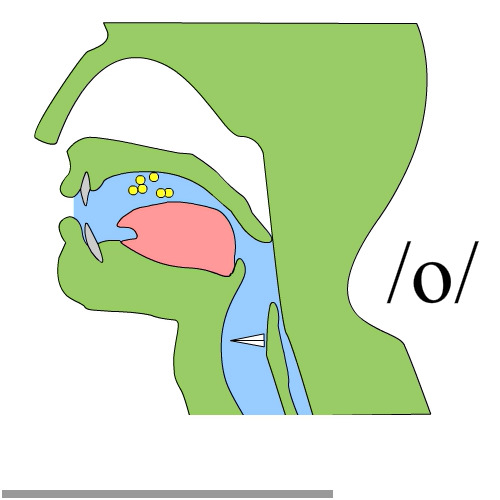
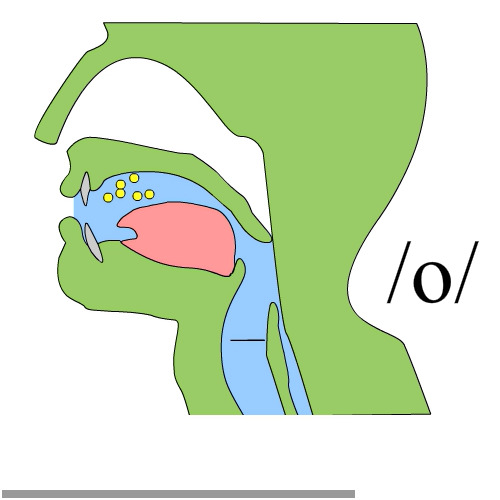
ola

Changed region(s): [[0.21, 0.33, 0.36, 0.42], [0.66, 0.96, 0.72, 1.0], [0.45, 0.66, 0.54, 0.69]]

diff --git a/posts/a-pronuncia-do-o-aberto-e-do-o-fechado.md b/posts/a-pronuncia-do-o-aberto-e-do-o-fechado.md
@@ -1,0 +1,18 @@
+---
+title: A pronuncia do o aberto e do o fechado
+tags:
+  - sons_vocalicos
+draft: false
+show_toc: false
+---
+## Como pronunciar *o* aberto e o *o* fechado
+
+<iframe width="560" height="315" src="https://www.youtube.com/embed/2AlQXbux11c?si=HhMFJtg0BmOjwhjn" title="YouTube video player" frameborder="0" allow="accelerometer; autoplay; clipboard-write; encrypted-media; gyroscope; picture-in-picture; web-share" allowfullscreen></iframe>
+
+## Repara: A chave está na lingua!
+
+Se comparares as dúas imaxes, notarás que na pronuncia do *o* aberto a lingua fica máis baixa. Porén, ao pronunciarmos o *o* fechado, temos que aproximala ao padal e esta pasa a estar máis alta. 
+
+![](/img/o_aberto.jpg)
+
+![](/img/o_fechado.jpg)

diff --git a/posts/a-pronuncia-do-e-aberto-e-do-e-fechado.md b/posts/a-pronuncia-do-e-aberto-e-do-e-fechado.md
@@ -1,0 +1,18 @@
+---
+title: A pronuncia do e aberto e do e fechado
+tags:
+  - sons_vocalicos
+draft: false
+show_toc: false
+---
+## Como pronunciar o *e* aberto e o *e* fechado
+
+<iframe width="560" height="315" src="https://www.youtube.com/embed/06Ic_N_M1pY?si=5kt7r12Jhd2go1EA" title="YouTube video player" frameborder="0" allow="accelerometer; autoplay; clipboard-write; encrypted-media; gyroscope; picture-in-picture; web-share" allowfullscreen></iframe>
+
+## Repara: a chave está na lingua!
+
+Se comparares as dúas imaxes, notarás que na pronuncia do *e* aberto a lingua fica máis baixa. Porén, para pronunciarmos o *e* fechado debemos elevala, aproximala ao padal.
+
+![](/img/e_aberto.jpg)
+
+![](/img/e_fechado.jpg)

diff --git a/posts/as-vogais-do-galego.md b/posts/as-vogais-do-galego.md
@@ -1,0 +1,10 @@
+---
+title: As vogais do galego
+tags:
+  - sons_vocalicos
+draft: false
+show_toc: false
+---
+Cantas vogais hai en galego?
+
+<iframe width="560" height="315" src="https://www.youtube.com/embed/hErJRG-u0jY?si=s2wNr-HjIcKJP1qS" title="YouTube video player" frameborder="0" allow="accelerometer; autoplay; clipboard-write; encrypted-media; gyroscope; picture-in-picture; web-share" allowfullscreen></iframe>
